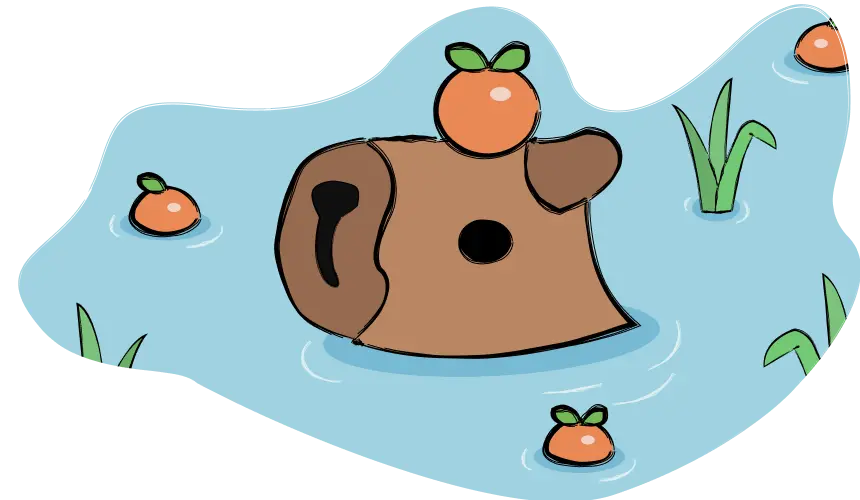
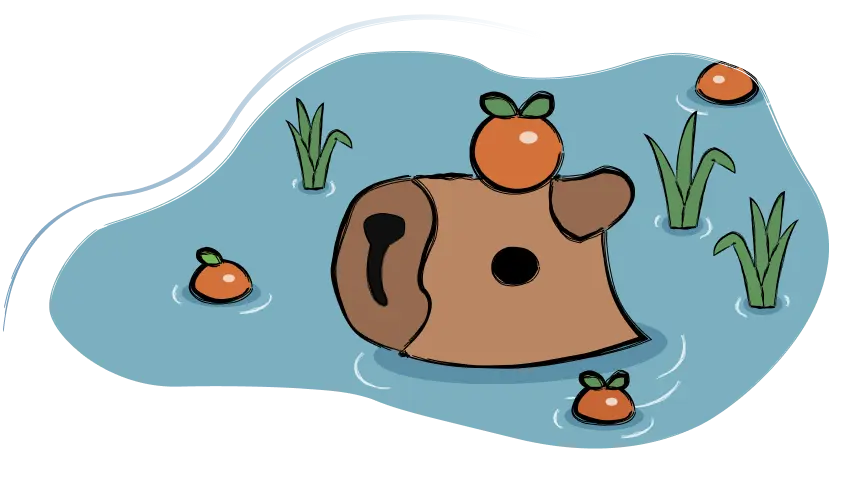
feat (exercises): New design

diff --git a/app/components/exercises/card.tsx b/app/components/exercises/card.tsx
@@ -1,25 +1,81 @@
 import Image from 'next/image'
-import {useMethod} from "@/lib/hooks/useMethod";
-import {useTranslations} from "next-intl";
-import NextLink from "next/link";
+import NextLink from 'next/link'
+import { useMethod } from '@/lib/hooks/useMethod'
+import { useTranslations } from 'next-intl'
+import { ChevronRight } from "lucide-react";
 
-export default function ExercisesCard({ method } : { method: Activity }) {
+export default function ExercisesCard({ method }: { method: Activity }) {
   const { methodData } = useMethod(method)
   const t = useTranslations('Method')
-  if (methodData === null) {
-    return null
-  }
+
+  if (methodData === null) return null
+
   return (
-    <NextLink href={`/exercises/${method}`}>
-      {
-        methodData.image
-          ? <Image src={ methodData.image } alt={ methodData.title } width={860} height={500} loading="eager" className="rounded-lg w-full" />
-          : <div className="rounded-lg h-32 bg-gray-500" />
-      }
-      <div className="py-4 text-left">
-        <h3 className="text-xl mb-4 hover:opacity-85">{ methodData.title }</h3>
-        <p className="text-md opacity-60 mb-4">{methodData.description}</p>
-        <p className="" role="link">{ t('start') }</p>
+    <NextLink
+      href={`/exercises/${method}`}
+      className="
+        group relative flex h-full flex-col overflow-hidden rounded-[28px]
+        border border-primary-200 bg-primary-100
+        transition-all duration-500
+        hover:-translate-y-1 hover:border-white/10
+        hover:shadow-[0_24px_80px_rgba(0,0,0,0.45)]
+      "
+    >
+      <div
+        className="
+          pointer-events-none absolute -left-16 -top-16 h-36 w-36
+          rounded-full bg-white/10 blur-3xl
+          transition-opacity duration-500 group-hover:opacity-80
+        "
+      />
+
+      <Image src={`/exercises/ic-${method}.svg`} width={60} height={60} className="absolute left-4 top-4 max-w-1/8 h-auto" alt="" />
+
+      <div className="relative z-10 flex h-full flex-col">
+        <div
+          className="relative flex items-center justify-center overflow-hidden"
+        >
+          {methodData.image ? (
+            <Image
+              src={methodData.image}
+              alt={methodData.title}
+              width={860}
+              height={500}
+              loading="eager"
+              className="
+                w-full object-contain
+                transition-transform duration-700
+                group-hover:scale-[1.04]
+              "
+            />
+          ) : (
+            <div className="h-full w-full rounded-3xl bg-white/10" />
+          )}
+        </div>
+
+        <div className="flex flex-1 flex-col items-start px-5 pb-5 text-left">
+          <h3 className="mb-2 text-xl font-medium tracking-[-0.02em] text-white/80">
+            {methodData.title}
+          </h3>
+
+          <p className="mb-4 max-w-sm text-base leading-normal text-white/50">
+            {methodData.description}
+          </p>
+
+          <div
+            className="
+              mt-auto inline-flex items-center justify-center gap-1 rounded-full
+              border border-white/10 bg-white/6
+              px-5 py-2 text-md text-white
+              transition-all duration-300
+              group-hover:border-white/20 group-hover:bg-white/10
+            "
+            role="link"
+          >
+            <span className="leading-none">{t('start')}</span>
+            <ChevronRight className="h-4 w-4 mt-0.5" />
+          </div>
+        </div>
       </div>
     </NextLink>
   )

diff --git a/app/[locale]/exercises/page.tsx b/app/[locale]/exercises/page.tsx
@@ -1,18 +1,25 @@
 import ExercisesCard from "@/components/exercises/card";
 import {useTranslations} from "next-intl";
 import { activityList } from '@/lib/variables'
+import { Sparkles, Heart } from "lucide-react";
 
 export default function Exercises() {
-  const t = useTranslations('Menu')
+  const t = useTranslations()
   return (
     <div className="container mx-auto px-10 py-8">
-      <h1 className="text-3xl mb-8">{ t('exercises') }</h1>
-      <div className="grid grid-cols-1 md:grid-cols-2 lg:grid-cols-3 gap-8">
+      <h1 className="text-3xl mb-4">{ t('Menu.exercises') }</h1>
+      <p className="text-base mb-8 opacity-80">{ t('exercisesDesc') }</p>
+      <div className="grid grid-cols-1 md:grid-cols-2 lg:grid-cols-3 gap-4">
         {
           activityList.map((activity) => (
             <ExercisesCard key={activity} method={activity} />
           ))
         }
+      </div>
+      <div className="flex items-center justify-center gap-2 mt-8">
+        <Sparkles width={20} height={20} className="text-yellow-600" />
+        <span className="text-white/50">{ t('exercisesBottom') }</span>
+        <Heart width={20} height={20} className="text-white/50" />
       </div>
     </div>
   );

diff --git a/app/[locale]/layout.tsx b/app/[locale]/layout.tsx
@@ -32,7 +32,7 @@ export default async function RootLayout({
       lang={locale}
       className={`${manrope.variable} h-full antialiased theme-dark`}
     >
-      <body className="min-h-full flex align-items-center ps-40 py-8">
+      <body className="min-h-full flex align-items-center ps-40">
         <CheckinStoreProvider>
           <Sidebar />
           <NextIntlClientProvider>{children}</NextIntlClientProvider>

diff --git a/app/lib/hooks/useMethod.ts b/app/lib/hooks/useMethod.ts
@@ -9,7 +9,7 @@ export function useMethod(method: Activity): { methodData: MethodData | null } {
       id: method,
       title: t(method),
       description: t(`${method}Description`),
-      image: `/exercises/${method}.png`,
+      image: `/exercises/${method}.webp`,
     }
   }, [method, t]);
 
